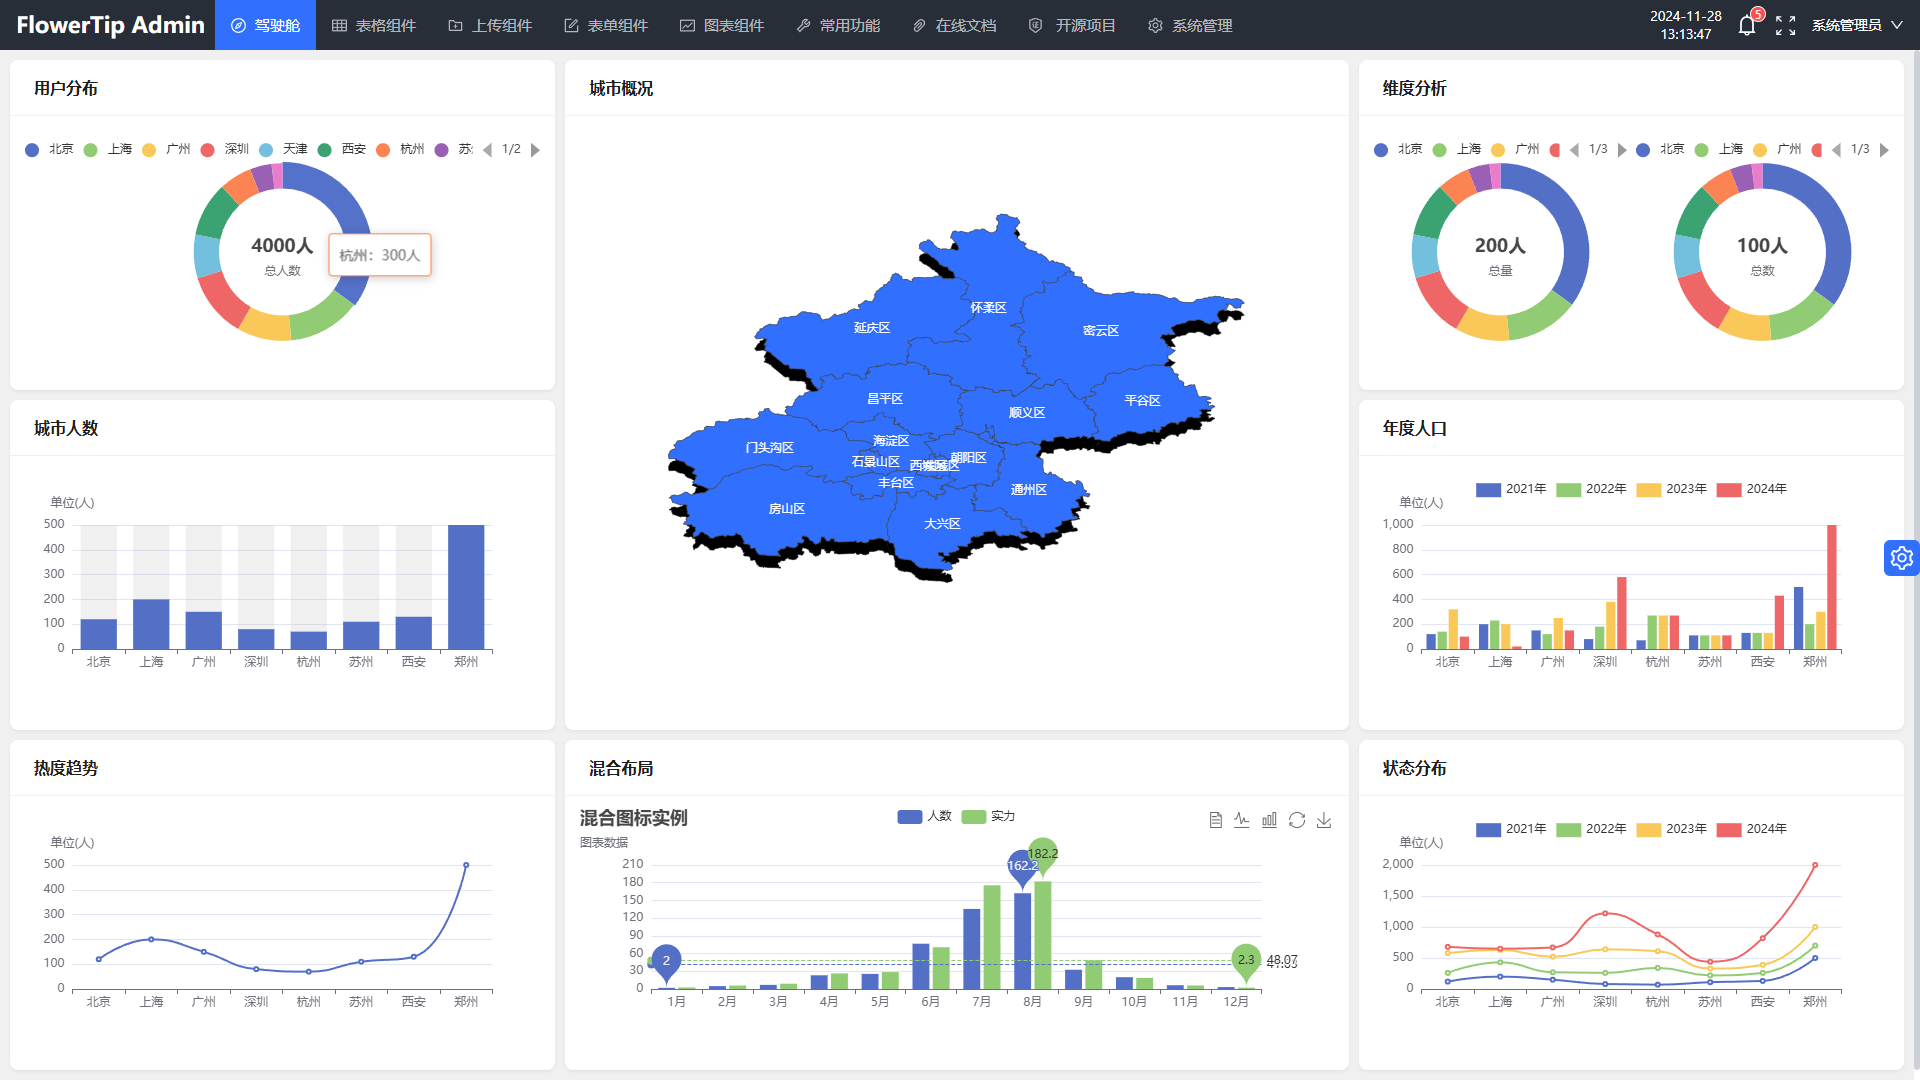
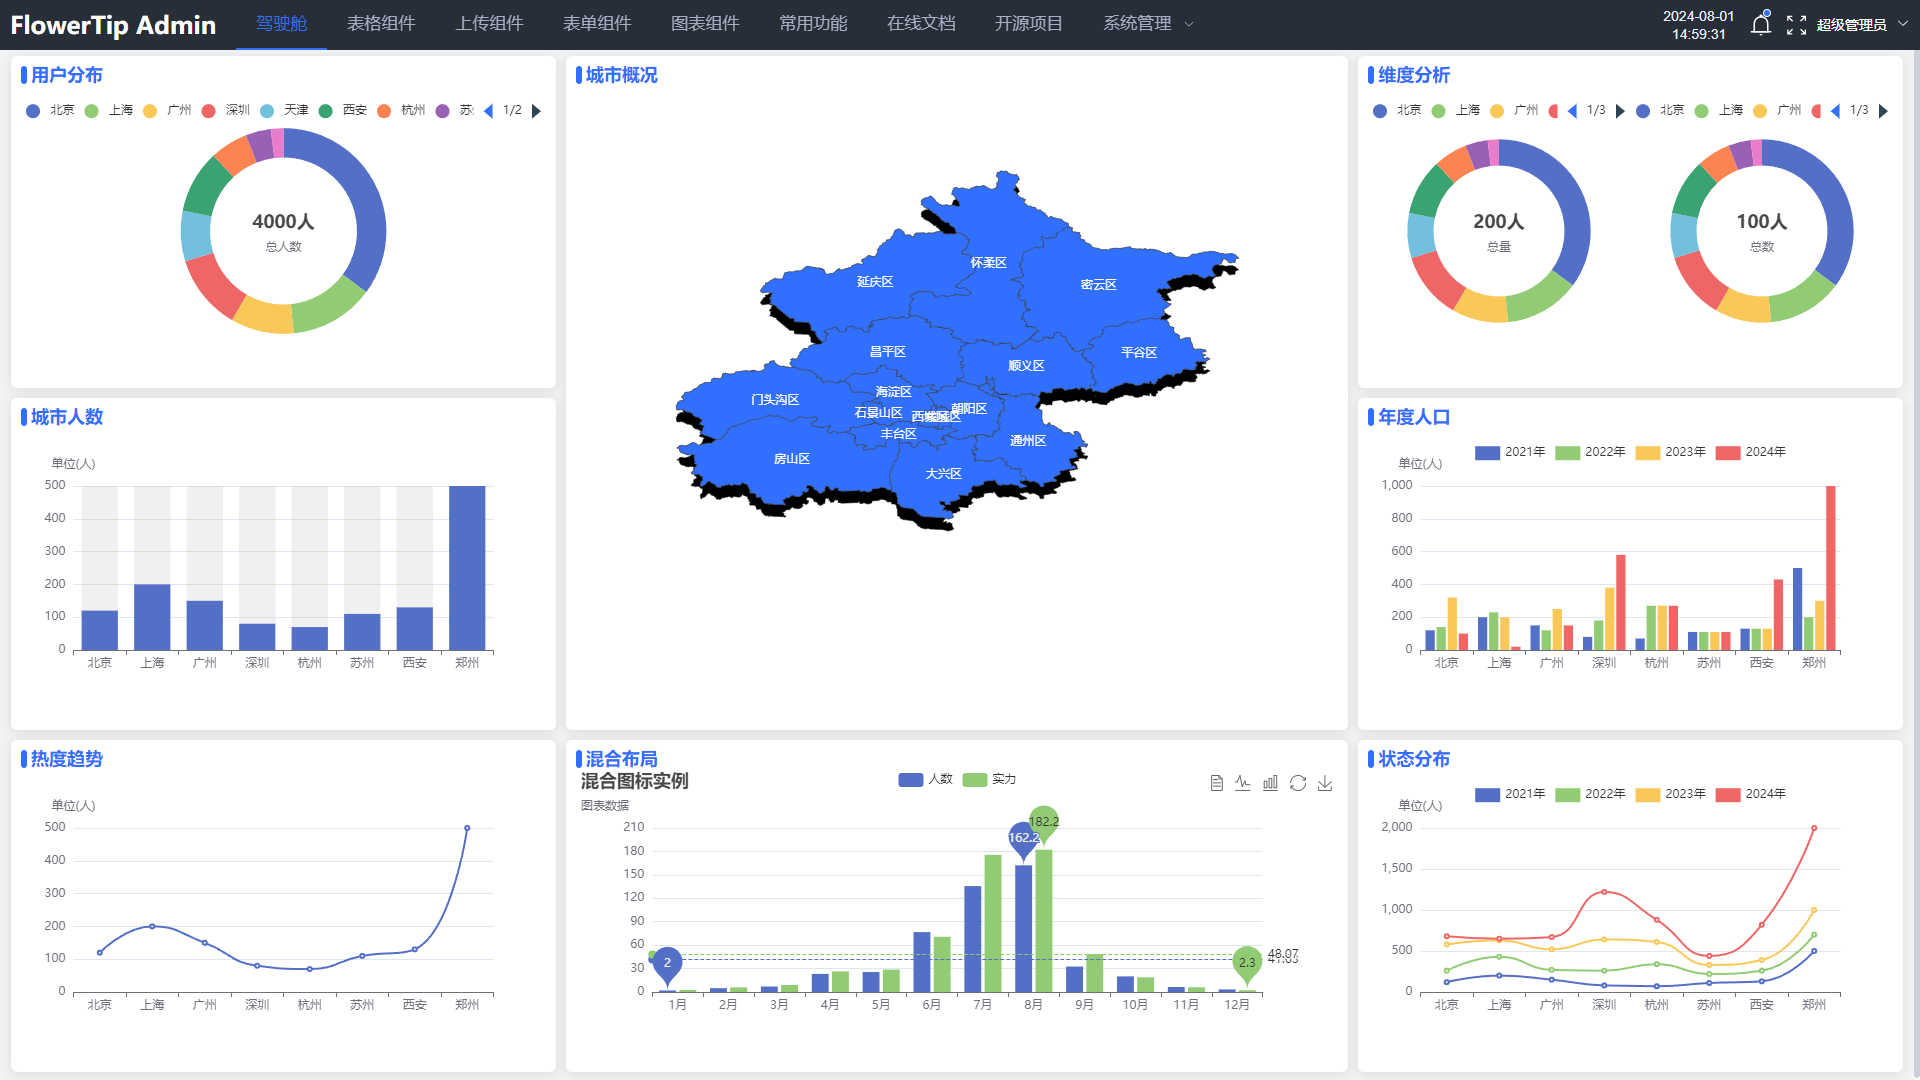
Revert "优化效果"
This reverts commit be1bb3102275e19c5073ece18f4e57770025be99.

diff --git a/src/layout/mixbar.tsx b/src/layout/mixbar.tsx
@@ -9,6 +9,7 @@ import useRouteMeta from '@/hooks/useRouteMeta';
 import { userStore, tagsViewStore } from '@/store'
 import { isExternalFn } from '@/utils/validate';
 import { reorganizeMenu } from '@/utils/tool';
+import { useRefreshTime } from '@/hooks/useRefreshTime';
 import TopHeader from './components/topHeader';
 import Sidebar from './components/sidebar';
 import Navbar from './components/navbar';
@@ -16,6 +17,7 @@ import './style/index.scss';
 const { Content } = Layout;
 
 const MibBarLayout: React.FC = () => {
+  const { clearTimer } = useRefreshTime();
   const [collapsed, setCollapsed] = useState(false);
 
   const toggleCollapsed = () => {
@@ -111,7 +113,7 @@ const MibBarLayout: React.FC = () => {
 
   }
 
-  const [currPath, setCurrPath] = useState('')
+  const [currPath, setCurrPath] = useState('/')
   const [sidebarPath, setSidebarPath] = useState(routeMeta.path)
   const parentItem = {
     title: (topRoute as any).meta?.title,
@@ -132,16 +134,16 @@ const MibBarLayout: React.FC = () => {
     breadcrumbItems.push(parentItem, childItem);
   }
   useEffect(() => {
-    console.log("输出1111");
     if (!routeMeta.redirect) {
+      navigate((uStore.userInfo.backMenuList[0] as any).redirect);
       setCurrPath((uStore.userInfo.backMenuList[0] as any).path);
-      // navigate((uStore.userInfo.backMenuList[0] as any).redirect);
+    }
+    return () => {
+      clearTimer();
     }
   }, [])
 
   useEffect(() => {
-    console.log("输出2222");
-    
     if (!routeMeta.redirect) return;
     const pathList = routeMeta.redirect.split('/').filter((path: string) => path);
     const key = pathList[pathList.length - 1];
@@ -171,7 +173,7 @@ const MibBarLayout: React.FC = () => {
       } else {
         const findChildren = childList.find((child: any) => child.redirect.includes(routeMeta.redirect.replace('/' + routeMeta.path, '')));
         findChildren && findChildren.children && (menuList = reorganizeMenu(findChildren.children))
-        findChildren && setActiveIndex(findChildren.path);
+        findChildren && setActiveIndex(findChildren.path as any);
       }
     } else {
       menuList = reorganizeMenu(childList);
@@ -180,11 +182,7 @@ const MibBarLayout: React.FC = () => {
     uStore.updateLeftMenus(menuList as unknown as any);
   }, [currPath])
 
-  const handlerSelect = ({ key, keyPath }: {
-    key: string,
-    keyPath: string[],
-    selectedKeys: string[]
-  }) => {
+  const handlerSelect = ({ key, keyPath }: any) => {
     const hasOnlyOne = topMenuList.find((menu: any) => menu.key == key);
     let redirectUrl = '';
     if (keyPath.length > 1) {
@@ -217,7 +215,7 @@ const MibBarLayout: React.FC = () => {
         console.log(findChild, '测试举手哈');
         if (findChild) {
           redirectUrl = findChild.redirect
-          setCurrPath(findChild.path);
+          setCurrPath(findChild.path as unknown as any);
           setSidebarPath(findChild.children[0].path);
         } else {
           setCurrPath(key)
@@ -239,10 +237,7 @@ const MibBarLayout: React.FC = () => {
     }
   }
 
-  const sidebarSelect = ({ key, keyPath }: {
-    key: string,
-    keyPath: string[]
-  }) => {
+  const sidebarSelect = ({ key, keyPath }: any) => {
     let url = ''
     if (keyPath.length > 1) {
       keyPath.reverse().forEach((path: string) => {

diff --git a/src/utils/tool.ts b/src/utils/tool.ts
@@ -1,16 +1,5 @@
-import defaultSetting from '@/setting';
+import defaultSetting from '@/setting'
 import { AntdIconProps } from '@ant-design/icons/lib/components/AntdIcon';
-import { RouteObject } from 'react-router-dom'
-declare interface RouteItemConfig extends Pick<RouteObject, 'path' | 'Component' | 'children'> {
-  name: string;
-  redirect?: string;
-  meta: {
-    title: HTMLElement | string;
-    icon: AntdIconProps;
-    parentName: string;
-    hidden?: boolean;
-  }
-}
 
 interface BackMenuItem {
   path: string;
@@ -87,7 +76,7 @@ export function getPageTitle(meta: {
  * 过滤掉属性children为空的
  * @param data 
  * @returns 
- */
+ */ 
 
 export function delChildren(data: AppTypeConfig.MenuOption[]) {
   let tempList: AppTypeConfig.MenuOption[] = []
@@ -115,28 +104,17 @@ export function delChildren(data: AppTypeConfig.MenuOption[]) {
  * @param authRouterList
  * @returns
  */
-
-interface RouteItemConfig extends Pick<RouteObject, 'path' | 'Component' | 'children'> {
-  name: string;
-  redirect?: string;
-  meta: {
-    title: HTMLElement | string;
-    icon: AntdIconProps;
-    parentName: string;
-    hidden?: boolean;
-  }
-}
 export function filterAsyncRoutes(
-  dynamicRoutes: RouteItemConfig[],
+  dynamicRoutes: BackMenuItem[],
   authRouterList: string[]
-): RouteItemConfig[] {
-  return dynamicRoutes.filter((route: RouteItemConfig) => {
+) {
+  return dynamicRoutes.filter((route) => {
     // 1.如果route的name在routeNames中没有, 直接过滤掉
     if (!authRouterList.includes(route.name)) return false;
 
     // 2.如果当前route还有子路由(也就是有children), 需要对子路由也进行权限过滤
     if (route.children && route.children.length > 0) {
-      route.children = filterAsyncRoutes(route.children as RouteItemConfig[], authRouterList);
+      route.children = filterAsyncRoutes(route.children, authRouterList);
     }
     return true;
   });

diff --git a/src/store/modules/user.tsx b/src/store/modules/user.tsx
@@ -4,18 +4,6 @@ import { reqLogin, reqUserInfo, reqLogout } from "@/api/user";
 import { asyncRoute } from '@/router/modules/routes';
 import { reorganizeMenu, filterAsyncRoutes } from '@/utils/tool';
 import { devtools } from 'valtio/utils';
-import { RouteObject } from 'react-router-dom';
-import { AntdIconProps } from '@ant-design/icons/lib/components/AntdIcon';
-declare interface RouteItemConfig extends Pick<RouteObject, 'path' | 'Component' | 'children'> {
-  name: string;
-  redirect?: string;
-  meta: {
-    title: HTMLElement | string;
-    icon: AntdIconProps;
-    parentName: string;
-    hidden?: boolean;
-  }
-}
 
 export const userStore = proxy({
   // 状态数据
@@ -56,14 +44,14 @@ export const userStore = proxy({
       userStore.userInfo.username = data.checkUser.username;
       userStore.userInfo = {...userStore.userInfo, ...data.checkUser};
       if (data.list.length > 0) {
-        let menuList:RouteItemConfig[] = [];
+        let menuList = [];
         if (process.env.NODE_ENV === "production") {
           menuList = filterAsyncRoutes(
-            asyncRoute as unknown as RouteItemConfig[],
+            asyncRoute as unknown as any,
             data.list.map((item) => item.code)
           );
         } else {
-          menuList = [...asyncRoute] as unknown as RouteItemConfig[];
+          menuList = [...asyncRoute];
         }
         userStore.userInfo.backMenuList = menuList as unknown as any;
         userStore.userInfo.permissionButtonList = data.buttons as unknown as any;

diff --git a/src/layout/components/rightbar.tsx b/src/layout/components/rightbar.tsx
@@ -25,12 +25,9 @@ const Rightbar = () => {
       if (screenfull.isFullscreen) setIsFullScreen(true);
       else setIsFullScreen(false);
     });
-    return () => {
-      clearTimer();
-    };
   }, [])
   // 当前时间
-  const { currentTime, clearTimer } = useRefreshTime();
+  const { currentTime } = useRefreshTime();
   const ymd = () => {
     const splitTime = currentTime.split(" ");
     return Array.isArray(splitTime) && splitTime[0];
@@ -563,8 +560,8 @@ const Rightbar = () => {
               </div>
             </div>
           </div>
-        </div>
-      </Drawer>
+        </div >
+      </Drawer >
       {
         sStore.globalSet.showSetting && (<div
           className="setting-btn"
@@ -572,7 +569,7 @@ const Rightbar = () => {
           onClick={openRightSetting}
         >
           <Icon className="setting-icon" component={SettingOutlined as React.ForwardRefExoticComponent<any>} />
-        </div>)
+        </div >)
       }
       {modalContextHolder}
       {contextHolder}

diff --git a/src/hooks/useRefreshTime.ts b/src/hooks/useRefreshTime.ts
@@ -4,14 +4,14 @@ import { useState } from 'react'
  * @description 获取当前时间
  */
 export const useRefreshTime = () => {
-  let [currentTime, setCurrentTime] = useState(dayjs().format("YYYY-MM-DD HH:mm:ss"));
+  let [currentTime] = useState(dayjs().format("YYYY-MM-DD HH:mm:ss"));
 
-  const timer = setTimeout(() => {
-    setCurrentTime(dayjs().format("YYYY-MM-DD HH:mm:ss"))
-  }, 1000);
+  // const timer = setTimeout(() => {
+  //   setCurrentTime(dayjs().format("YYYY-MM-DD HH:mm:ss"))
+  // }, 1000);
 
   const clearTimer = () => {
-    clearInterval(timer);
+    // clearInterval(timer);
   };
   return {
     currentTime,

diff --git a/src/views/login/index.tsx b/src/views/login/index.tsx
@@ -66,8 +66,8 @@ const Login: React.FC = () => {
           <Form.Item className="tip">
             <h4>温馨提示：</h4>
             <p>1.系统管理员登入添加系统用户账号分配角色权限使用</p>
-            <p>2.权限操作涉及的页面在系统管理的权限管理模块设置</p>
-            <p>3.问题反馈提Issues，或者邮箱17516019587@163.com</p>
+            <p>2.权限操作涉及的页面在系统管理的权限管理模块使用</p>
+            <p>3.系统服务器配置不稳定，速度慢，仅限学习技术使用</p>
           </Form.Item>
         </Form>
       </div>
